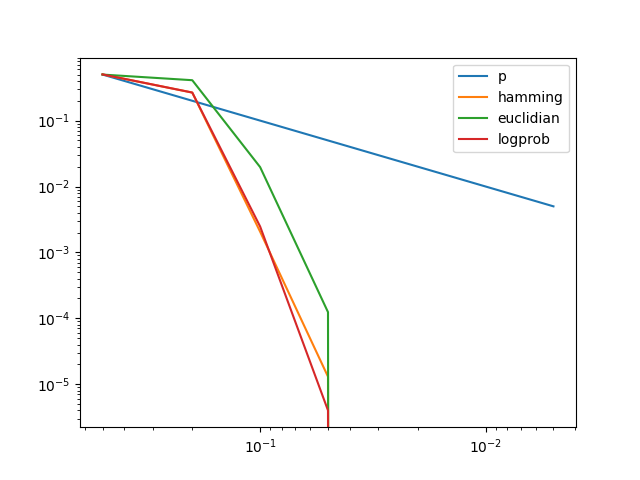
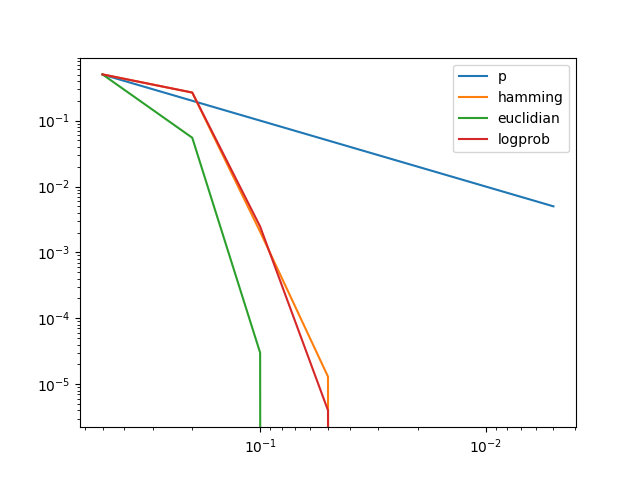
euclidian viterbi definitely working

diff --git a/professional/ele-32/lab3/binary/awgn_canal.cpp b/professional/ele-32/lab3/binary/awgn_canal.cpp
@@ -11,7 +11,7 @@ AwgnCanal::AwgnCanal(double snr) {
 		this->stddev = -1;
 		this->normalInfinite = std::uniform_real_distribution<double>(-1e3, 1e3);
 	} else {
-		this->stddev = 1/std::sqrt(snr);
+		this->stddev = 1/std::sqrt(2*snr);
 		this->normalReal = std::normal_distribution<double>(0, this->stddev);
 	}
 }

diff --git a/professional/ele-32/lab3/plotter/space_comparation.py b/professional/ele-32/lab3/plotter/space_comparation.py
@@ -1,7 +1,7 @@
 import matplotlib.pyplot as plt
 from data_grabber import grab_space_comparation_data
 
-data = grab_space_comparation_data()
+data = grab_space_comparation_data('euclidian')
 p, e3, e4, e6 = data['p'], data['e3'], data['e4'], data['e6']
 
 plt.figure()
